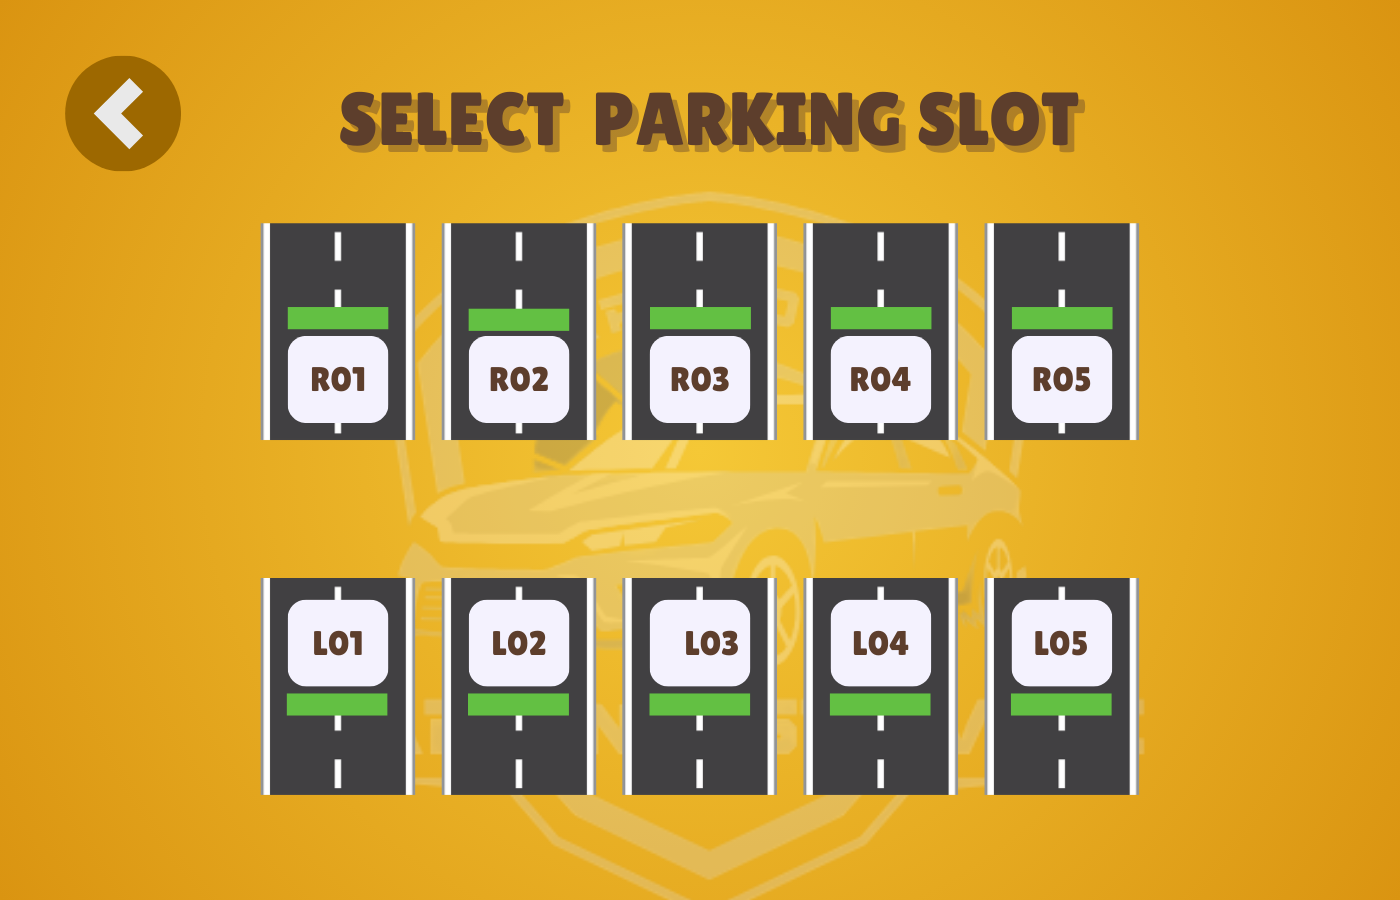
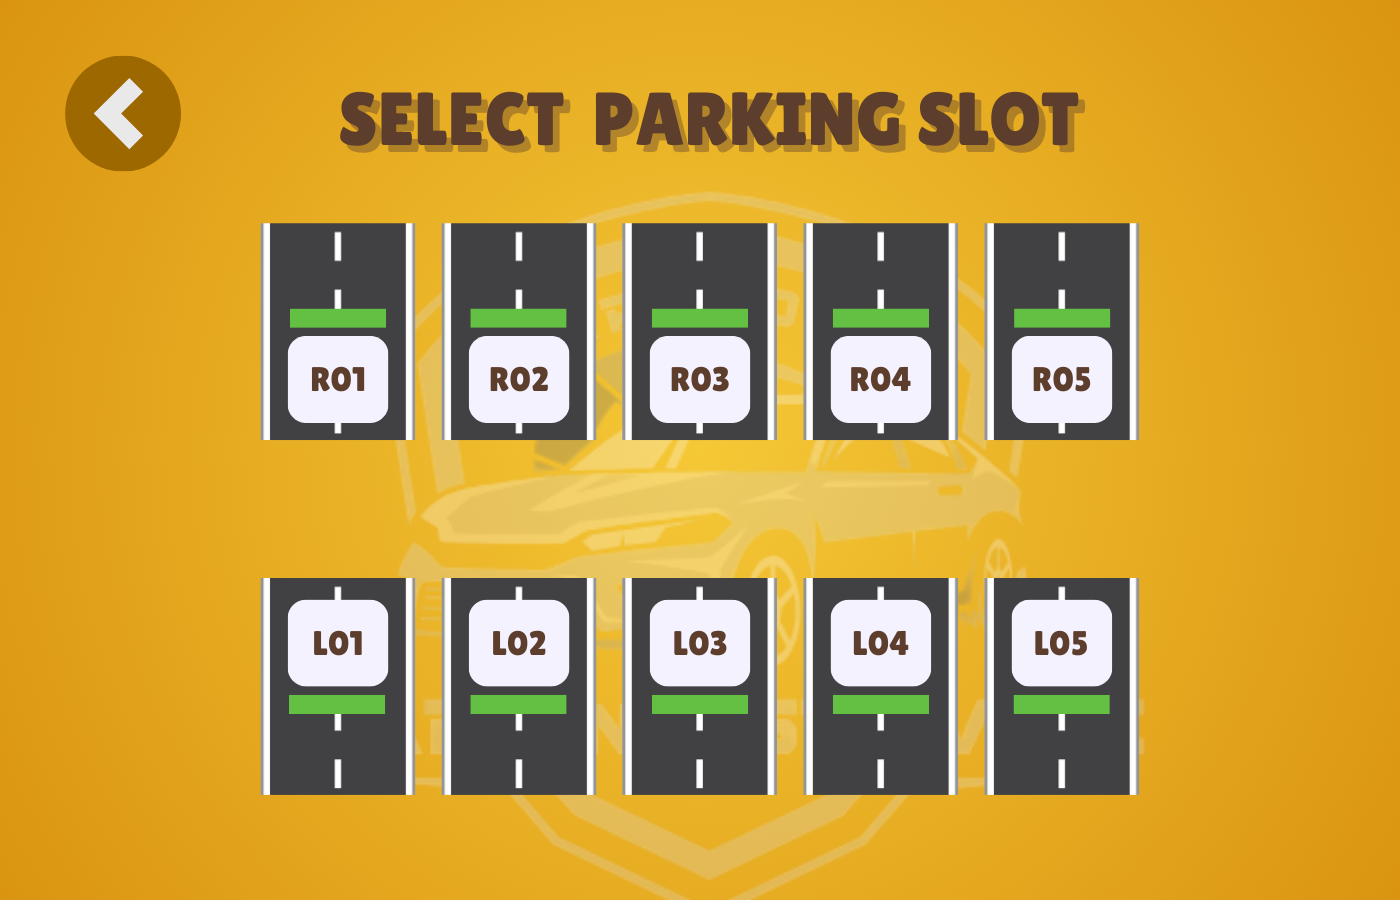
new

diff --git a/src/parkingsystem/P03_SELECTPARK.java b/src/parkingsystem/P03_SELECTPARK.java
@@ -310,16 +310,16 @@ private void slotButtonClicked(String slotName) {
             }
         });
         getContentPane().add(L05, new org.netbeans.lib.awtextra.AbsoluteConstraints(1010, 600, 100, 80));
-        getContentPane().add(r1l, new org.netbeans.lib.awtextra.AbsoluteConstraints(290, 306, 100, 20));
-        getContentPane().add(r2l, new org.netbeans.lib.awtextra.AbsoluteConstraints(470, 310, 100, 20));
-        getContentPane().add(r3l, new org.netbeans.lib.awtextra.AbsoluteConstraints(650, 306, 100, 20));
-        getContentPane().add(r4l, new org.netbeans.lib.awtextra.AbsoluteConstraints(830, 310, 100, 20));
-        getContentPane().add(r5l, new org.netbeans.lib.awtextra.AbsoluteConstraints(1010, 306, 100, 20));
-        getContentPane().add(l1l, new org.netbeans.lib.awtextra.AbsoluteConstraints(290, 696, 100, 20));
-        getContentPane().add(l2l, new org.netbeans.lib.awtextra.AbsoluteConstraints(470, 696, 100, 20));
-        getContentPane().add(l3l, new org.netbeans.lib.awtextra.AbsoluteConstraints(650, 696, 100, 20));
-        getContentPane().add(l4l, new org.netbeans.lib.awtextra.AbsoluteConstraints(830, 696, 100, 20));
-        getContentPane().add(l5l, new org.netbeans.lib.awtextra.AbsoluteConstraints(1010, 696, 100, 20));
+        getContentPane().add(r1l, new org.netbeans.lib.awtextra.AbsoluteConstraints(288, 308, 100, 20));
+        getContentPane().add(r2l, new org.netbeans.lib.awtextra.AbsoluteConstraints(469, 308, 100, 20));
+        getContentPane().add(r3l, new org.netbeans.lib.awtextra.AbsoluteConstraints(650, 308, 100, 20));
+        getContentPane().add(r4l, new org.netbeans.lib.awtextra.AbsoluteConstraints(831, 308, 100, 20));
+        getContentPane().add(r5l, new org.netbeans.lib.awtextra.AbsoluteConstraints(1012, 308, 100, 20));
+        getContentPane().add(l1l, new org.netbeans.lib.awtextra.AbsoluteConstraints(288, 694, 100, 20));
+        getContentPane().add(l2l, new org.netbeans.lib.awtextra.AbsoluteConstraints(469, 694, 100, 20));
+        getContentPane().add(l3l, new org.netbeans.lib.awtextra.AbsoluteConstraints(650, 694, 100, 20));
+        getContentPane().add(l4l, new org.netbeans.lib.awtextra.AbsoluteConstraints(831, 694, 100, 20));
+        getContentPane().add(l5l, new org.netbeans.lib.awtextra.AbsoluteConstraints(1012, 694, 100, 20));
 
         mainIMG.setIcon(new javax.swing.ImageIcon(getClass().getResource("/MAIN_UI/SELECT_PARK_FNL.png"))); // NOI18N
         getContentPane().add(mainIMG, new org.netbeans.lib.awtextra.AbsoluteConstraints(0, 0, 1400, -1));
